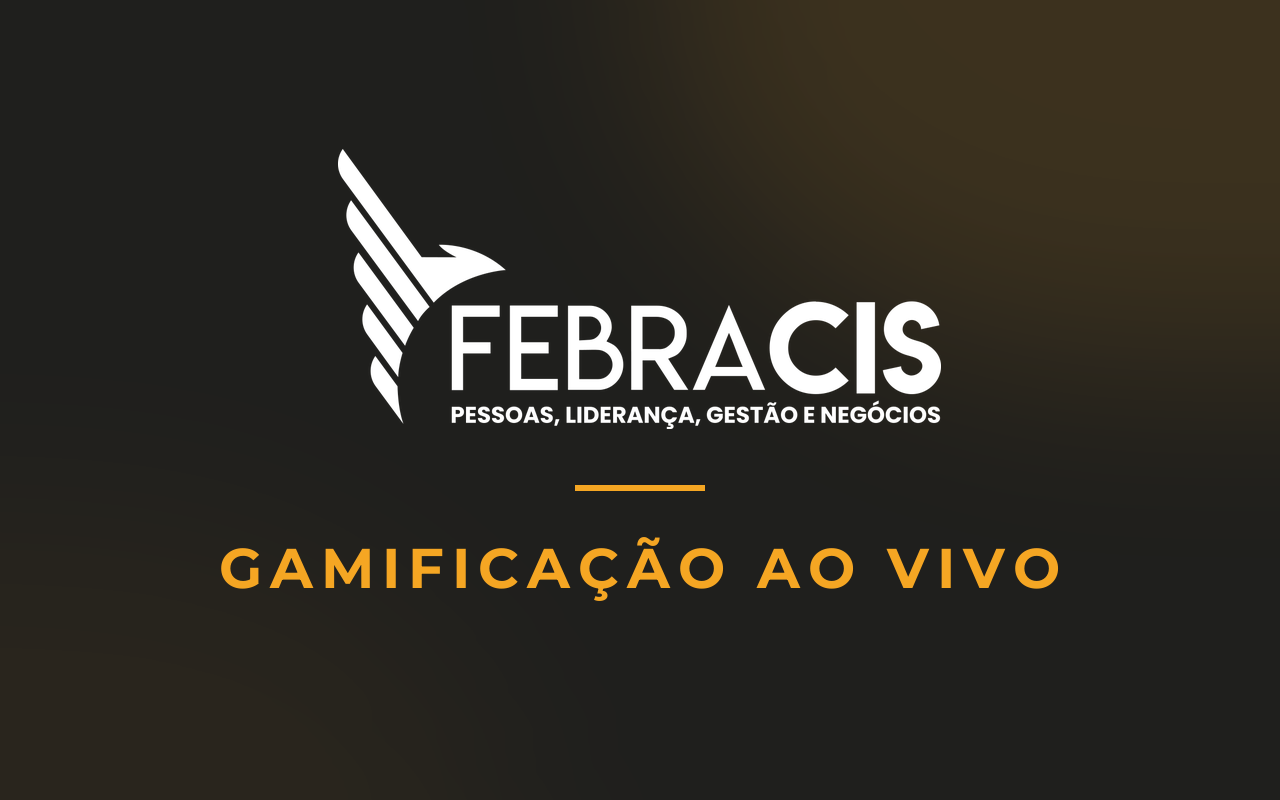
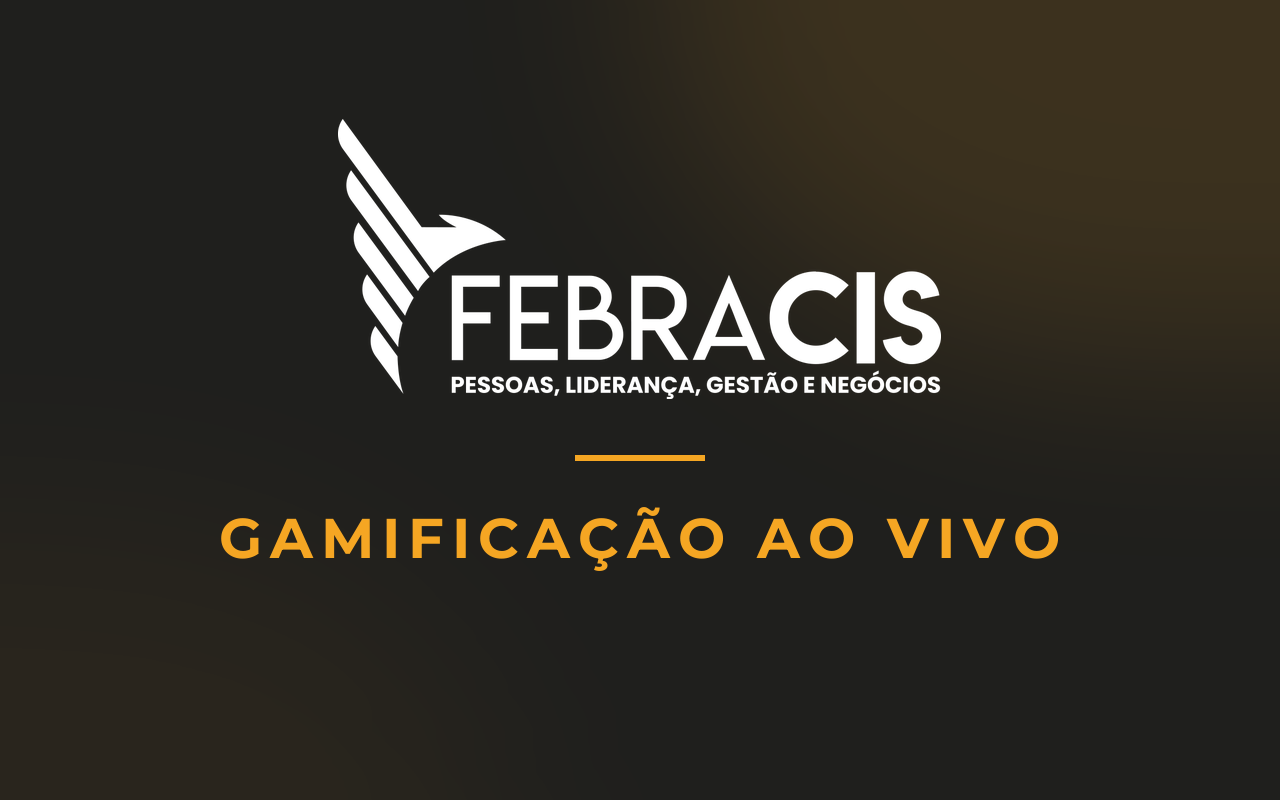
Capas verticais: conteúdo acaba antes do botão Trocar foto (v3.5.30, só homologação)

Changed region(s): [[0.25, 0.1562, 0.75, 0.5312], [0.1562, 0.5625, 0.5625, 0.75], [0.5938, 0.625, 0.8438, 0.75]]

diff --git a/assets/js/04-core-dashboard.js b/assets/js/04-core-dashboard.js
@@ -1,7 +1,7 @@
 /* PCE 2.0 · 05-core-dashboard
    Extraido do index monolitico sem alteracao de logica.
    Engenharia e fundacao: Ronaldo Ferreira. */
-const PCE_VERSION = '3.5.29';
+const PCE_VERSION = '3.5.30';
 const API_SCHEMA_VERSION = '3.0'; // atualizado para DASH-BR-COMPLETO v2
 const DATA_SOURCES = {
   br: {
@@ -4142,13 +4142,13 @@ function manualLoadCache(){
 // HOMOLOGAÇÃO (30/10/2026, noite): capas novas dos cards de gamificação, verticais e no tema dourado, porque o card
 // (256x160) cortava as capas antigas de 1260x540. Só aqui até o "aprovado" do Carlos; na produção o cover_url muda no banco.
 var HOMOLOG_CAPAS_V2 = {
-  'gamefica--o---ao-vivo': 'assets/img/capas/v2/capa-melid-le.png?v=2',
-  'gamificacao-ao-vivo-pce': 'assets/img/capas/v2/capa-pce.png?v=2',
-  'gamificacao-ao-vivo-revolution': 'assets/img/capas/v2/capa-revolution.png?v=2',
-  'gamificacao-ao-vivo-febracis': 'assets/img/capas/v2/capa-febracis.png?v=2',
-  'gamificacao-ao-vivo-anjo': 'assets/img/capas/v2/capa-anjo.png?v=2',
-  'gamificacao-ao-vivo-arquetipos': 'assets/img/capas/v2/capa-arquetipos.png?v=2',
-  'gamificacao-ao-vivo-preco': 'assets/img/capas/v2/capa-precificacao.png?v=2'
+  'gamefica--o---ao-vivo': 'assets/img/capas/v2/capa-melid-le.png?v=3',
+  'gamificacao-ao-vivo-pce': 'assets/img/capas/v2/capa-pce.png?v=3',
+  'gamificacao-ao-vivo-revolution': 'assets/img/capas/v2/capa-revolution.png?v=3',
+  'gamificacao-ao-vivo-febracis': 'assets/img/capas/v2/capa-febracis.png?v=3',
+  'gamificacao-ao-vivo-anjo': 'assets/img/capas/v2/capa-anjo.png?v=3',
+  'gamificacao-ao-vivo-arquetipos': 'assets/img/capas/v2/capa-arquetipos.png?v=3',
+  'gamificacao-ao-vivo-preco': 'assets/img/capas/v2/capa-precificacao.png?v=3'
 };
 function homologCardAnjo(state){
   Object.keys(HOMOLOG_CAPAS_V2).forEach(function(k){ if (state[k]) state[k]._coverUrl = HOMOLOG_CAPAS_V2[k]; });

diff --git a/index.html b/index.html
@@ -668,9 +668,9 @@
   <button class="mob-tab" data-mob="estoque" onclick="switchPage('estoque')"><svg viewBox="0 0 24 24" fill="none" stroke="currentColor" stroke-width="2" stroke-linecap="round" stroke-linejoin="round"><path d="M21 16V8a2 2 0 0 0-1-1.73l-7-4a2 2 0 0 0-2 0l-7 4A2 2 0 0 0 3 8v8a2 2 0 0 0 1 1.73l7 4a2 2 0 0 0 2 0l7-4A2 2 0 0 0 21 16z"/><polyline points="3.27 6.96 12 12.01 20.73 6.96"/><line x1="12" y1="22.08" x2="12" y2="12"/></svg><span>Estoque</span></button>
   <button class="mob-tab" data-mob="menu" onclick="toggleMobileNav()"><svg viewBox="0 0 24 24" fill="none" stroke="currentColor" stroke-width="2" stroke-linecap="round"><line x1="3" y1="6" x2="21" y2="6"/><line x1="3" y1="12" x2="21" y2="12"/><line x1="3" y1="18" x2="21" y2="18"/></svg><span>Menu</span></button>
 </nav>
-<script src="assets/js/04-core-dashboard.js?v=3.5.29"></script>
+<script src="assets/js/04-core-dashboard.js?v=3.5.30"></script>
 
-<script src="assets/js/05-manual-pce.js?v=3.5.29"></script>
+<script src="assets/js/05-manual-pce.js?v=3.5.30"></script>
 
 
 <!-- AUTH MODAL -->
